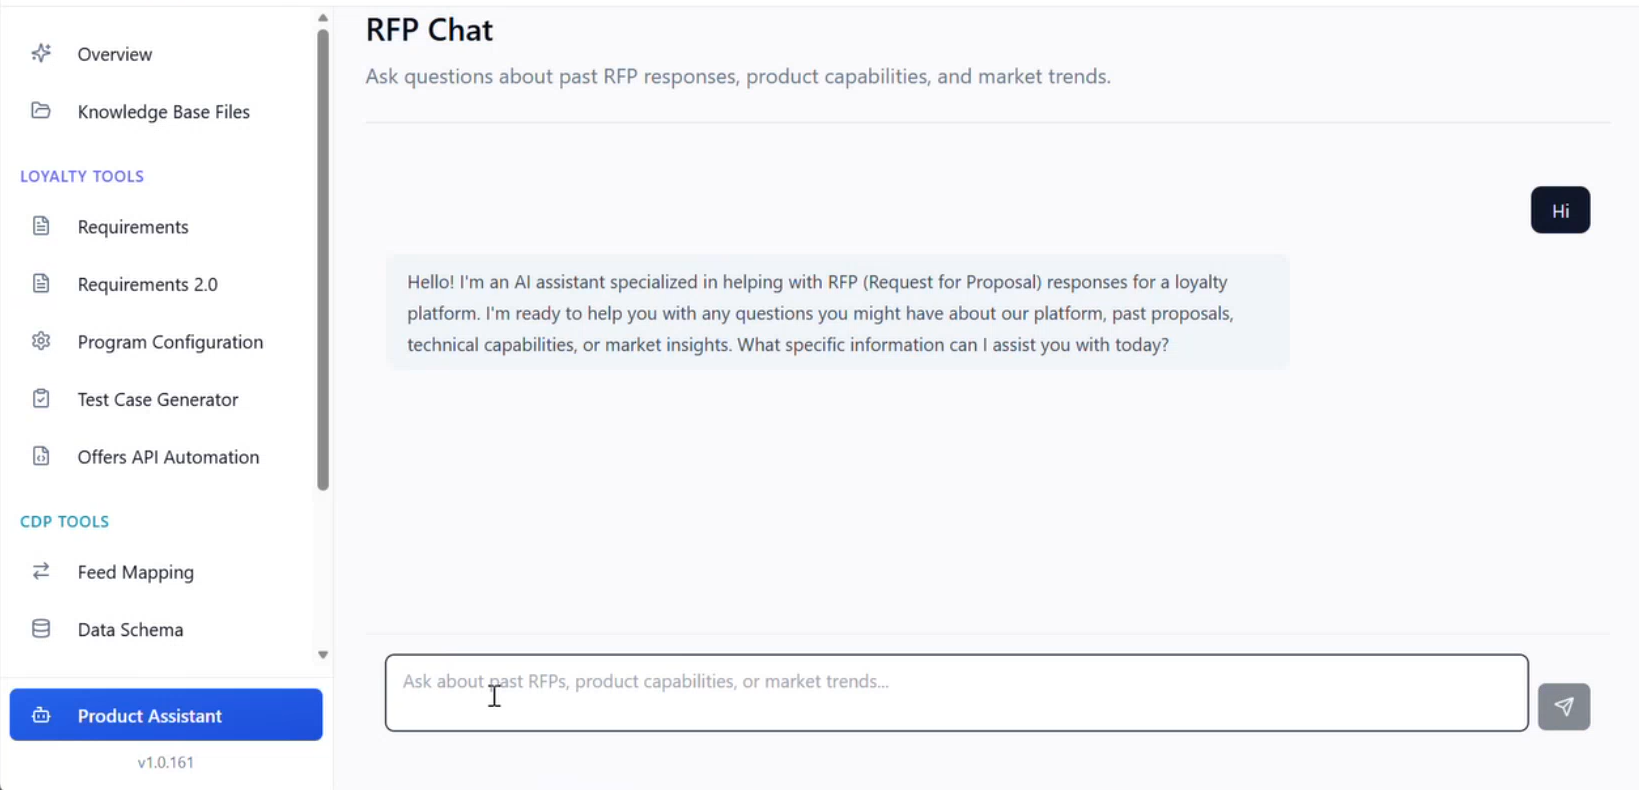
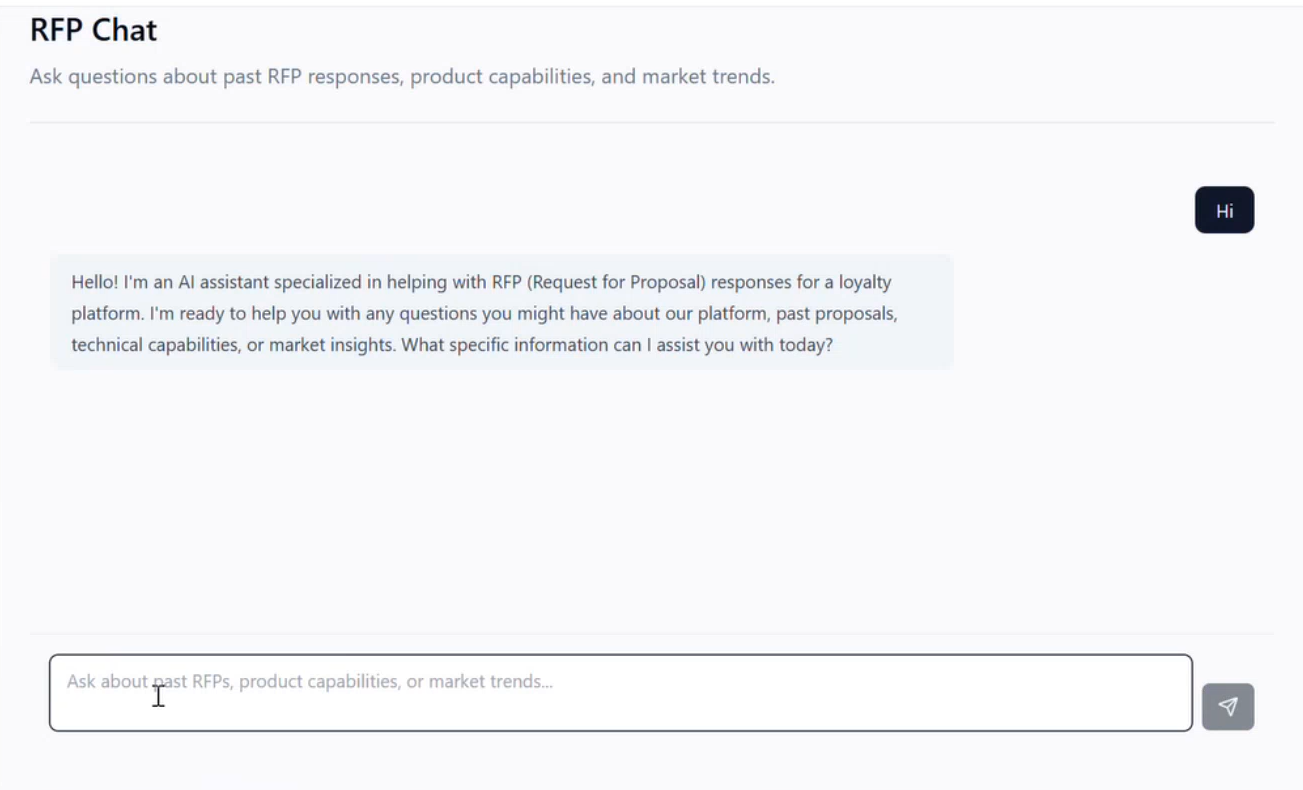
Add Leadership section and move GenAI Upskilling section and modified images across

diff --git a/projects/genai-upskilling.html b/projects/genai-upskilling.html
@@ -33,7 +33,7 @@
             </header>
 
             <!-- ===== BACK BUTTON ===== -->
-            <a href="../index.html#projects" class="back-button">
+            <a href="../index.html#leadership" class="back-button">
                 <i class="fas fa-arrow-left"></i> All Projects
             </a>
 
@@ -52,6 +52,15 @@
                         foundational and advanced artificial intelligence technologies. I structured the program into
                         two distinct phases to balance conceptual depth with technical competency.
                     </p>
+
+                    <!-- ===== CERTIFICATE IMAGE ===== -->
+                    <figure class="project-figure">
+                        <img src="../assets/images/cert_genai.png" alt="GenAI Training Certificate"
+                            class="project-image" />
+                        <figcaption class="project-caption">Certificate for serving as an SME in the GenAI Enterprise
+                            Upskilling program.
+                        </figcaption>
+                    </figure>
 
                     <h3>The Challenge</h3>
                     <p>
@@ -160,6 +169,26 @@
 
             .back-button:hover {
                 color: var(--text-primary);
+            }
+
+            .project-figure {
+                margin: 1.6rem 0;
+            }
+
+            .project-image {
+                width: 100%;
+                max-width: 600px;
+                border-radius: 12px;
+                border: 1px solid var(--border);
+                display: block;
+            }
+
+            .project-caption {
+                font-family: 'Inter', sans-serif;
+                font-size: 0.85rem;
+                color: var(--text-muted);
+                margin-top: 0.4rem;
+                font-style: italic;
             }
 
             .project-description h3 {

diff --git a/index.html b/index.html
@@ -102,6 +102,11 @@
                         personalised modules.</p>
                     <a href="projects/learning-synthesis-agent.html">Learn more →</a>
                 </div>
+            </section>
+
+            <!-- ===== LEADERSHIP ===== -->
+            <section class="leadership" id="leadership" style="scroll-margin-top: 80px;">
+                <h2>Leadership &amp; Training</h2>
 
                 <div class="project-item">
                     <h3>GenAI Enterprise Upskilling Initiative</h3>

diff --git a/projects/end-to-end-dev-agent.html b/projects/end-to-end-dev-agent.html
@@ -44,6 +44,7 @@
                     for ETL modifications.</p>
 
                 <!-- ===== IMAGE: n8n Pipeline ===== -->
+                <!--
                 <figure class="project-figure">
                     <img src="../assets/images/code_auto_n8n.png"
                         alt="n8n orchestration pipeline connecting RMT, AI agents, and validation layers"
@@ -51,7 +52,7 @@
                     <figcaption class="project-caption">n8n orchestration pipeline connecting RMT, AI agents, and
                         validation layers.</figcaption>
                 </figure>
-
+                -->
                 <!-- ===== OVERVIEW ===== -->
                 <div class="project-description">
 